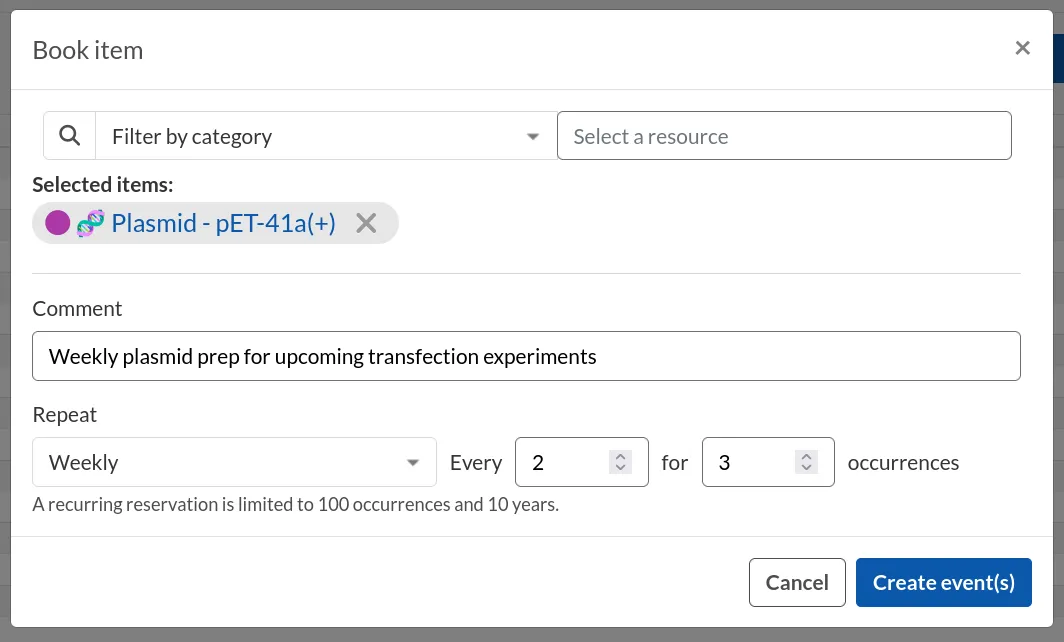
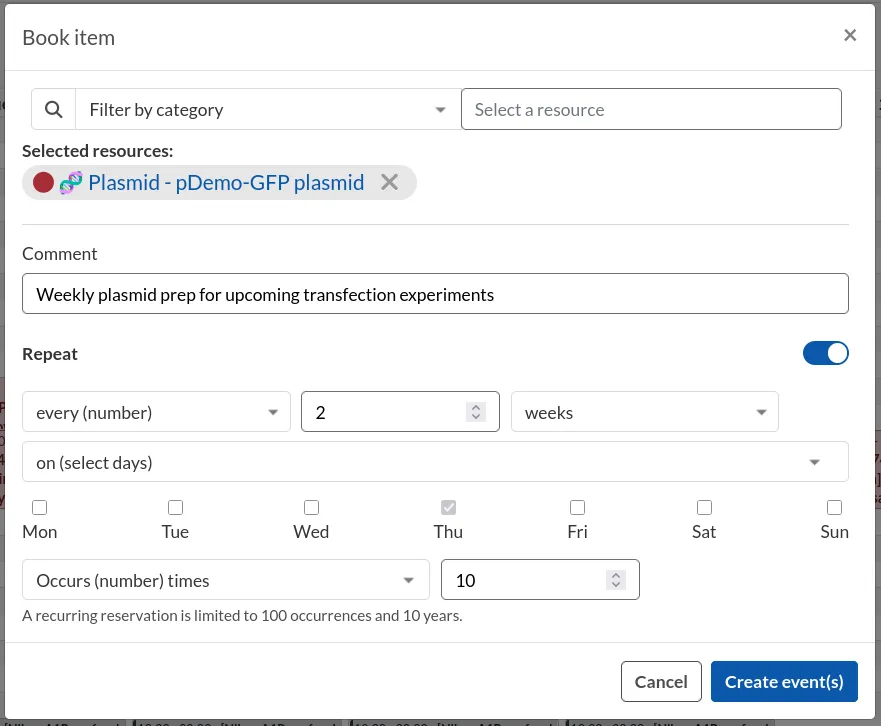
doc update & add back modal-lg actually

diff --git a/src/templates/scheduler-pick-items-modal.html b/src/templates/scheduler-pick-items-modal.html
@@ -1,5 +1,5 @@
 <div class='modal fade' id='itemPickerSelectModal' tabindex='-1' aria-labelledby='itemPickerSelectLabel'>
-  <div class='modal-dialog modal-dialog-centered'>
+  <div class='modal-dialog modal-lg modal-dialog-centered'>
     <div class='modal-content'>
       <div class='modal-header'>
         <h5 class='modal-title' id='itemPickerSelectLabel'>{{ 'Book item'|trans }}</h5>
